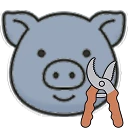
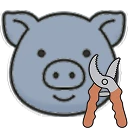
jaya

Changed region(s): [[0.625, 0.4062, 1.0, 1.0]]

diff --git a/game.js b/game.js
@@ -1,6 +1,23 @@
 // Piggy's Harvest — main game scene
 // No physics engine — pure drag/drop merge, with the farm half showing the crop
 
+// AN ITEM'S ART CAN RUN PAST ITS PIG. The pig face is the top-left
+// CELL.ICON_PIG_PX square of the texture; the rest of the canvas (the tool) is
+// allowed out of the icon box. So the ORIGIN goes on the pig's centre — the
+// sprite is still placed at the box's centre and the pig lands exactly there —
+// and the size is set so that square, not the whole canvas, is pigW × pigH.
+function itemPigOrigin(spr) {
+    const P = CONFIG.CELL.ICON_PIG_PX || 128;
+    const f = spr.frame;
+    return spr.setOrigin(Math.min(1, P / 2 / f.realWidth), Math.min(1, P / 2 / f.realHeight));
+}
+function fitItemIcon(spr, pigW, pigH) {
+    const P = CONFIG.CELL.ICON_PIG_PX || 128;
+    const f = spr.frame;
+    itemPigOrigin(spr);
+    return spr.setDisplaySize(pigW * f.realWidth / P, pigH * f.realHeight / P);
+}
+
 class AssetManager {
     constructor(scene) {
         this.scene = scene;
@@ -66,14 +83,13 @@ class AssetManager {
     // Draw `spr` as `iconLvl` as soon as that art is in hand. Safe to call for a
     // texture already loaded — it simply sets it.
     dressWhenReady(spr, iconLvl) {
-        // setTexture keeps the sprite's SCALE, not the size it was drawn at, so
-        // art on a different canvas to the placeholder's would land at the
-        // wrong size — the cell was fitted to a number of pixels, not to a
-        // multiplier. Put the size back after every swap.
+        // setTexture keeps the sprite's SCALE, and every item's pig is the
+        // same ICON_PIG_PX square — so the same scale keeps the pig the same
+        // size on any canvas, and a bigger canvas just spills further out. Only
+        // the origin has to follow the new canvas (see fitItemIcon).
         const wear = (key) => {
-            const w = spr.displayWidth, h = spr.displayHeight;
             spr.setTexture(key);
-            spr.setDisplaySize(w, h);
+            itemPigOrigin(spr);
         };
         const key = `battery${iconLvl}`;
         if (this.scene.textures.exists(key)) { wear(key); return; }
@@ -2465,7 +2481,7 @@ class GameScene extends Phaser.Scene {
         const batterySprite = this.add.image(p.slotX, p.slotY + yOff,
             this.assets.iconKey(batteryIconLevel));
         this.assets.dressWhenReady(batterySprite, batteryIconLevel);
-        batterySprite.setDisplaySize(this.slotBatteryW, this.slotBatteryH);
+        fitItemIcon(batterySprite, this.slotBatteryW, this.slotBatteryH);
         batterySprite.setDepth(11);
 
         const levelText = this.add.text(p.slotX, p.slotY + yOff + tOff, `PIGGY ${level}`, {
@@ -2703,9 +2719,8 @@ class GameScene extends Phaser.Scene {
         // BUILT NOW, whatever art is to hand (see AssetManager.iconKey). The
         // cell is filled on this frame, so nothing can be dropped into it while
         // a picture downloads.
-        const battery = this.add.image(cell.x, cell.y + this.batteryYOffset,
-                this.assets.iconKey(iconLvl))
-            .setDisplaySize(this.batteryDisplayW, this.batteryDisplayH)
+        const battery = fitItemIcon(this.add.image(cell.x, cell.y + this.batteryYOffset,
+                this.assets.iconKey(iconLvl)), this.batteryDisplayW, this.batteryDisplayH)
             .setDepth(11);
         this.assets.dressWhenReady(battery, iconLvl);
 
@@ -2795,8 +2810,8 @@ class GameScene extends Phaser.Scene {
         // dressed in its own when that lands — the button is pressable from the
         // first frame, so its icon must be there from the first frame too.
         const iconLvl = getBatteryIconLevel(this.spawnButtonLevel);
-        const spawnIcon = this.add.image(L.spawnBattIconX, 0, this.assets.iconKey(iconLvl))
-            .setDisplaySize(L.spawnBattIconSize, L.spawnBattIconSize);
+        const spawnIcon = fitItemIcon(this.add.image(L.spawnBattIconX, 0, this.assets.iconKey(iconLvl)),
+            L.spawnBattIconSize, L.spawnBattIconSize);
         this.assets.dressWhenReady(spawnIcon, iconLvl);
         spawnBtn.add(spawnIcon);
         this.spawnButtonIcon = spawnIcon;
@@ -3157,7 +3172,7 @@ class GameScene extends Phaser.Scene {
                 this.spawnButtonText.setText(this._bigNum(this.spawnCost));
                 const iconLvl = getBatteryIconLevel(nl);
                 if (this.spawnButtonIcon) {
-                    this.spawnButtonIcon.setTexture(this.assets.iconKey(iconLvl));
+                    itemPigOrigin(this.spawnButtonIcon.setTexture(this.assets.iconKey(iconLvl)));
                     this.assets.dressWhenReady(this.spawnButtonIcon, iconLvl);
                 }
             }
@@ -3592,7 +3607,7 @@ class GameScene extends Phaser.Scene {
             if (bd.inGrid) {
                 bd.level += 1;
                 bd.levelText.setText(`PIGGY ${bd.level}`);
-                bd.sprite.setTexture(`battery${getBatteryIconLevel(bd.level)}`);
+                itemPigOrigin(bd.sprite.setTexture(`battery${getBatteryIconLevel(bd.level)}`));
                 if (bd.level > this.highestBatteryLevel) this.highestBatteryLevel = bd.level;
             }
         }
@@ -3603,7 +3618,7 @@ class GameScene extends Phaser.Scene {
                 slot.level += 1;
                 slot.chargePerMinute = getBatteryChargeValue(slot.level);
                 if (slot.batteryData) slot.batteryData.level = slot.level;
-                if (p.batterySprite)    p.batterySprite.setTexture(`battery${getBatteryIconLevel(slot.level)}`);
+                if (p.batterySprite)    itemPigOrigin(p.batterySprite.setTexture(`battery${getBatteryIconLevel(slot.level)}`));
                 if (p.batteryLevelText) p.batteryLevelText.setText(`PIGGY ${slot.level}`);
                 p.chargeRateText.setText(this._bigNum(slot.chargePerMinute));
             }
@@ -3795,6 +3810,24 @@ class GameScene extends Phaser.Scene {
     // ================================================================
     update(time, delta) {
         if (!this._firstFrameMarked) { this._firstFrameMarked = true; loadMark('first frame — create() finished'); }
+        // DEBUG: light boxes over the space each item's sprite and its level
+        // text take up, drawn under both (sprite 11, text 12).
+        if (!this.itemBoundsDbg || !this.itemBoundsDbg.scene) {
+            this.itemBoundsDbg = this.add.graphics().setDepth(10.5);
+        }
+        const g = this.itemBoundsDbg.clear();
+        const slotItems = (this.chargingSlots || []).filter(Boolean).map((s) => s.batteryData);
+        for (const bd of [...(this.batteries || []), ...slotItems]) {
+            if (!bd) continue;
+            if (bd.sprite && bd.sprite.scene && bd.sprite.visible) {
+                const r = bd.sprite.getBounds();
+                g.fillStyle(0xbfe3ff, 0.6).fillRect(r.x, r.y, r.width, r.height);
+            }
+            if (bd.levelText && bd.levelText.scene && bd.levelText.visible) {
+                const r = bd.levelText.getBounds();
+                g.fillStyle(0xfff3b0, 0.75).fillRect(r.x, r.y, r.width, r.height);
+            }
+        }
         if (this.gamePaused) return;
         // Nothing to step. Everything that moves on screen is tween- or
         // timer-driven, and _setPaused stops those directly.

diff --git a/config.js b/config.js
@@ -325,6 +325,11 @@ var CONFIG = {
         // square — measure the file rather than guessing, because too large a
         // number here shrinks the icon to fit a width it does not need.
         ICON_ASPECT: 1,
+        // THE PIG IS THE TOP-LEFT ICON_PIG_PX SQUARE of every item's art, in
+        // the file's own pixels. That square is what fills the cell's icon box;
+        // anything the canvas has past it (the tool) spills out over the edges
+        // at the same scale rather than being squeezed in. See fitItemIcon.
+        ICON_PIG_PX: 128,
         BATTERY_DISPLAY_SIZE: 64,
         BATTERY_SCALE: 1.0,
         BATTERY_Y_OFFSET: 5,
